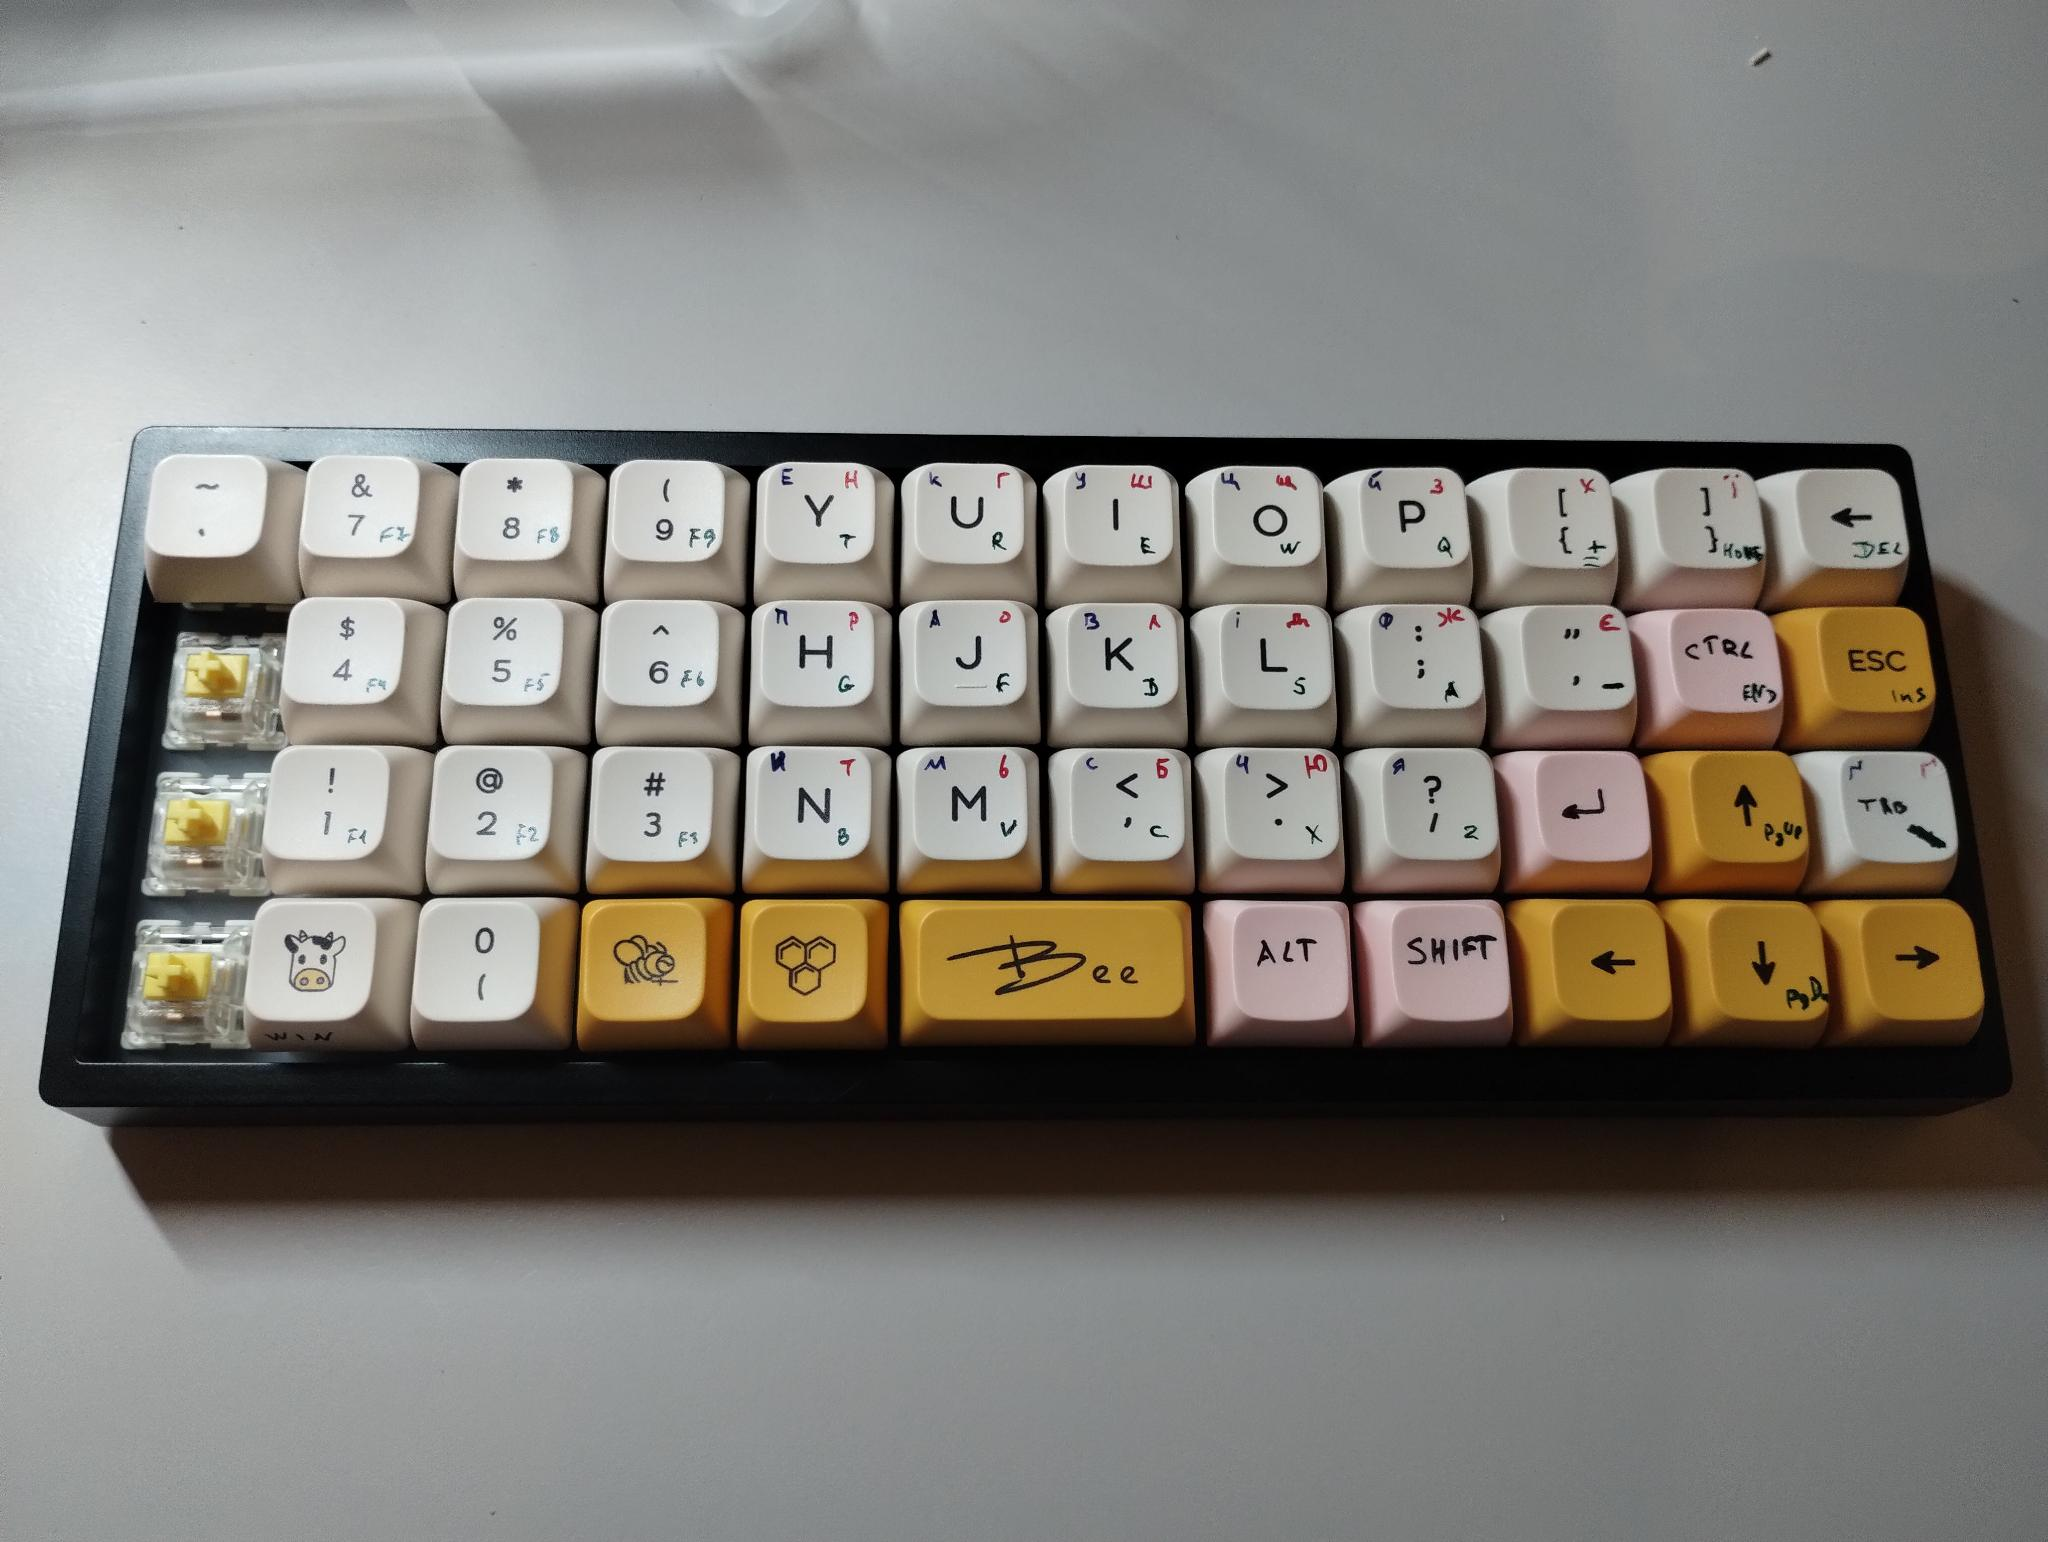
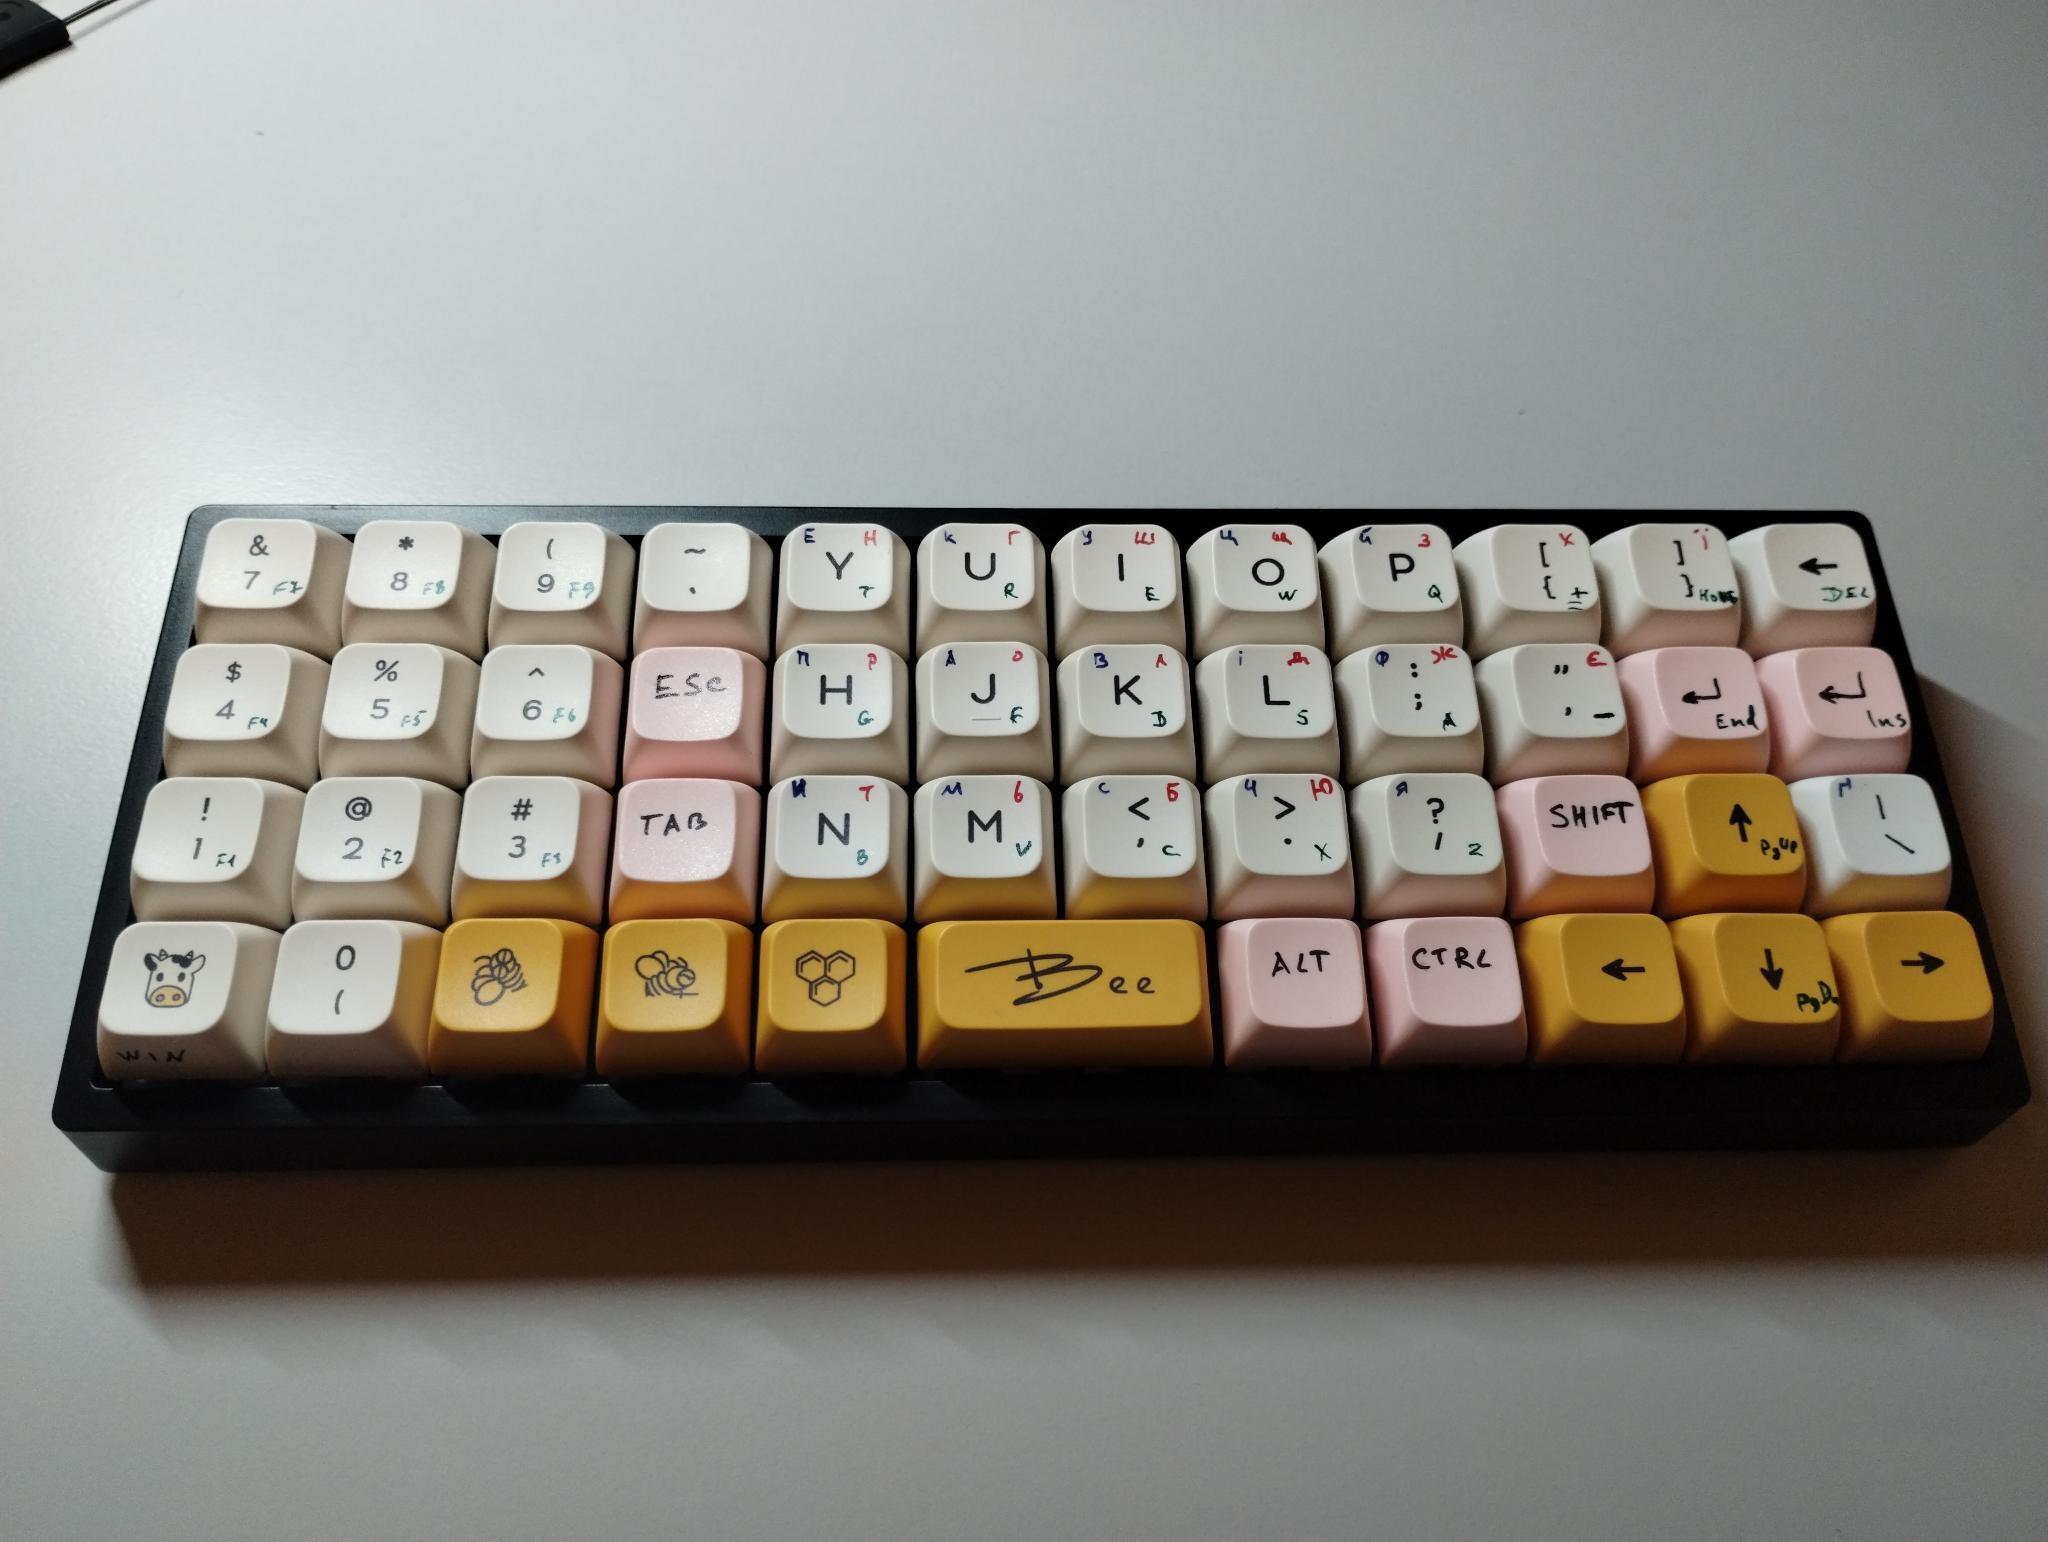
shifted the number block, changed the CTRL and SHIFT positions

diff --git a/keyboards/kprepublic/cstc40/single_pcb/keymaps/clackups_1hr/keymap.c b/keyboards/kprepublic/cstc40/single_pcb/keymaps/clackups_1hr/keymap.c
@@ -11,38 +11,38 @@ const uint16_t PROGMEM keymaps[][MATRIX_ROWS][MATRIX_COLS] = {
 
 /* Primary layer
  * ,-----------------------------------------------------------------------------------.
- * |   ~  |   7  |   8  |   9  |   Y  |   U  |   I  |   O  |   P  |   {  |   }  | Bksp |
+ * |  7   |   8  |   9  |   ~  |   Y  |   U  |   I  |   O  |   P  |   {  |   }  | Bksp |
  * |------+------+------+------+------+------+------+------+------+------+------+------|
- * |      |   4  |   5  |   6  |   H  |   J  |   K  |   L  |   ;  |  "   | Ctrl | Esc  |
+ * |  4   |   5  |   6  |  Esc |   H  |   J  |   K  |   L  |   ;  |  "   | Enter| Enter|
  * |------+------+------+------+------+------+------+------+------+------+------+------|
- * |      |   1  |   2  |   3  |   N  |   M  |   ,  |  .   |   /  | Enter|  Up  | Tab  |
+ * |  1   |   2  |   3  | Tab  |   N  |   M  |   ,  |  .   |   /  | Shift|  Up  |   |  |
  * |------+------+------+------+------+------+------+------+------+------+------+------|
- * |      |  WIN |   0  | Space| Space|    Space    |  Alt |Shift |Left  | Down |Right |
+ * | WIN  |  0   | Space| Space| Space|    Space    |  Alt |Ctrl  |Left  | Down |Right |
  * `-----------------------------------------------------------------------------------'
  */
 [0] = LAYOUT_planck_mit(
-    KC_TILD,      KC_7,        KC_8,        KC_9,     KC_Y,    KC_U,     KC_I,     KC_O,     KC_P,     KC_LCBR, KC_RCBR, KC_BSPC,
-    _______,      KC_4,        KC_5,        KC_6,     KC_H,    KC_J,     KC_K,     KC_L,     KC_SCLN,  KC_QUOT, OSM(MOD_RCTL), KC_ESC,
-    _______,      KC_1,        KC_2,        KC_3,     KC_N,    KC_M,     KC_COMM,  KC_DOT,   KC_SLSH,  KC_ENT,  KC_UP,   KC_TAB,
-    _______,   KC_LWIN,        KC_0, LT(1,KC_SPC), LT(1,KC_SPC), LT(1,KC_SPC),OSM(MOD_RALT),OSM(MOD_RSFT),KC_LEFT,  KC_DOWN, KC_RGHT
+    KC_7,        KC_8,        KC_9,  KC_TILD,     KC_Y,    KC_U,     KC_I,     KC_O,     KC_P,     KC_LCBR, KC_RCBR, KC_BSPC,
+    KC_4,        KC_5,        KC_6,   KC_ESC,     KC_H,    KC_J,     KC_K,     KC_L,     KC_SCLN,  KC_QUOT, KC_ENT,  KC_ENT,
+    KC_1,        KC_2,        KC_3,   KC_TAB,     KC_N,    KC_M,     KC_COMM,  KC_DOT,   KC_SLSH,  OSM(MOD_RSFT), KC_UP, KC_BACKSLASH,
+    KC_LWIN,     KC_0, LT(1,KC_SPC),LT(1,KC_SPC), LT(1,KC_SPC), LT(1,KC_SPC),OSM(MOD_RALT), OSM(MOD_RCTL), KC_LEFT,  KC_DOWN, KC_RGHT
 ),
 
 /* Secondary layer, activated by holding the space key
  * ,-----------------------------------------------------------------------------------.
- * |      |  F7  |  F8  |  F9  |   T  |   R  |   E  |   W  |   Q  |   =  | Home | Del  |
+ * |  F7  |  F8  |  F9  |      |   T  |   R  |   E  |   W  |   Q  |   =  | Home | Del  |
  * |------+------+------+------+------+------+------+------+------+------+------+------|
- * |      |  F4  |  F5  |  F6  |   G  |   F  |   D  |   S  |   A  |   -  | End  | Ins  |
+ * |  F4  |  F5  |  F6  |      |   G  |   F  |   D  |   S  |   A  |   -  | End  | Ins  |
  * |------+------+------+------+------+------+------+------+------+------+------+------|
- * |      |  F1  |  F2  |  F3  |   B  |   V  |   C  |   X  |   Z  |      | PgUp |   \  |
+ * |  F1  |  F3  |  F3  |      |   B  |   V  |   C  |   X  |   Z  |      | PgUp |      |
  * |------+------+------+------+------+------+------+------+------+------+------+------|
  * |      |      |      |      |      |      |      |      |      |      | PgDn |      |
  * `-----------------------------------------------------------------------------------'
  */
 [1] = LAYOUT_planck_mit(
-    _______,     KC_F7,       KC_F8,       KC_F9,     KC_T,    KC_R,     KC_E,     KC_W,     KC_Q,      KC_EQL, KC_HOME,  KC_DEL,
-    _______,     KC_F4,       KC_F5,       KC_F6,     KC_G,    KC_F,     KC_D,     KC_S,     KC_A,     KC_MINS,  KC_END,  KC_INS,
-    _______,     KC_F1,       KC_F2,       KC_F3,     KC_B,    KC_V,     KC_C,     KC_X,     KC_Z,     _______, KC_PGUP, KC_BACKSLASH,
-    _______,   _______,       DF(2),     _______,   _______,  _______,            _______,  _______,   _______, KC_PGDN, _______
+    KC_F7,       KC_F8,       KC_F9,   XXXXXXX,  KC_T,    KC_R,     KC_E,     KC_W,     KC_Q,     KC_EQL,  KC_HOME,  KC_DEL,
+    KC_F4,       KC_F5,       KC_F6,   XXXXXXX,  KC_G,    KC_F,     KC_D,     KC_S,     KC_A,     KC_MINS,  KC_END,  KC_INS,
+    KC_F1,       KC_F2,       KC_F3,   XXXXXXX,  KC_B,    KC_V,     KC_C,     KC_X,     KC_Z,     XXXXXXX, KC_PGUP, XXXXXXX,
+    XXXXXXX,     DF(2),     XXXXXXX,   XXXXXXX,  XXXXXXX, XXXXXXX,         XXXXXXX,  XXXXXXX,     XXXXXXX, KC_PGDN, XXXXXXX
 ),
 
 
@@ -56,14 +56,14 @@ const uint16_t PROGMEM keymaps[][MATRIX_ROWS][MATRIX_COLS] = {
  * |------+------+------+------+------+------+------+------+------+------+------+------|
  * |      |      |      |      |      | WH-L |      | WH-R |      |      |  Up  |      |
  * |------+------+------+------+------+------+------+------+------+------+------+------|
- * |      |      |  L0  | BTN1 |      |      |      |      |      | Left | Down | Right|
+ * |      |  L0  |  L0  |      | BTN1 |      |      |      |      | Left | Down | Right|
  * `-----------------------------------------------------------------------------------'
  */
 [2] = LAYOUT_planck_mit(
     XXXXXXX, XXXXXXX, XXXXXXX, XXXXXXX, XXXXXXX, KC_BTN1, KC_MS_U, KC_BTN2, KC_WH_U, XXXXXXX, XXXXXXX, XXXXXXX,
     XXXXXXX, XXXXXXX, XXXXXXX, XXXXXXX, XXXXXXX, KC_MS_L, KC_MS_D, KC_MS_R, KC_WH_D, XXXXXXX, XXXXXXX, XXXXXXX,
     XXXXXXX, XXXXXXX, XXXXXXX, XXXXXXX, XXXXXXX, KC_WH_L, XXXXXXX, KC_WH_R, XXXXXXX, XXXXXXX,   KC_UP, XXXXXXX,
-    XXXXXXX, XXXXXXX,   DF(0), KC_BTN1, XXXXXXX, XXXXXXX,          XXXXXXX, XXXXXXX, KC_LEFT,  KC_DOWN, KC_RGHT
+    XXXXXXX,   DF(0),   DF(0), XXXXXXX, KC_BTN1, XXXXXXX,          XXXXXXX, XXXXXXX, KC_LEFT,  KC_DOWN, KC_RGHT
 ),
 
 

diff --git a/ONE_HANDED_CSTC40.md b/ONE_HANDED_CSTC40.md
@@ -13,14 +13,10 @@ KPrepublic](https://kprepublic.com/products/cstc40-40-rgb-40-hot-swappable-mecha
 The layout is still a work in progress, so sugestions are very much
 welcome.
 
-The three keys in the bottom row, spannig the space bar (yellow on the
+The four keys in the bottom row, spannig the space bar (yellow on the
 photo below) are all acting as a space bar and a layer switcher. You
 hold the space bar and tap the keys from the mirrored half (on the
 photo below, Space+L would produce the letter "s", or Ukrainian "i").
-
-The rest of keys on the left are used for digits and tilde. The
-WIN/GUI button is using a cow logo on the photo. Also, the space bar
-turns the digit keys into F keys.
 
 ALT, SHIFT and CTRL are made sticky: you can tap and leave the key,
 and proceed with the letter. So, tapping SHIFT, then Space+H will
@@ -30,9 +26,6 @@ Space+0 switches the keyboard into the mouse control mode. The "I" key
 moves the ouse pointer up. See the rest of the key actions in the
 keymap file. "0" returns the keyboard into the default mode. The arrow
 keys remain with their function for cursor movements.
-
-The three keys on the left are currently unused. Suggestions are
-welcome.
 
 
 Right-handed layout:
